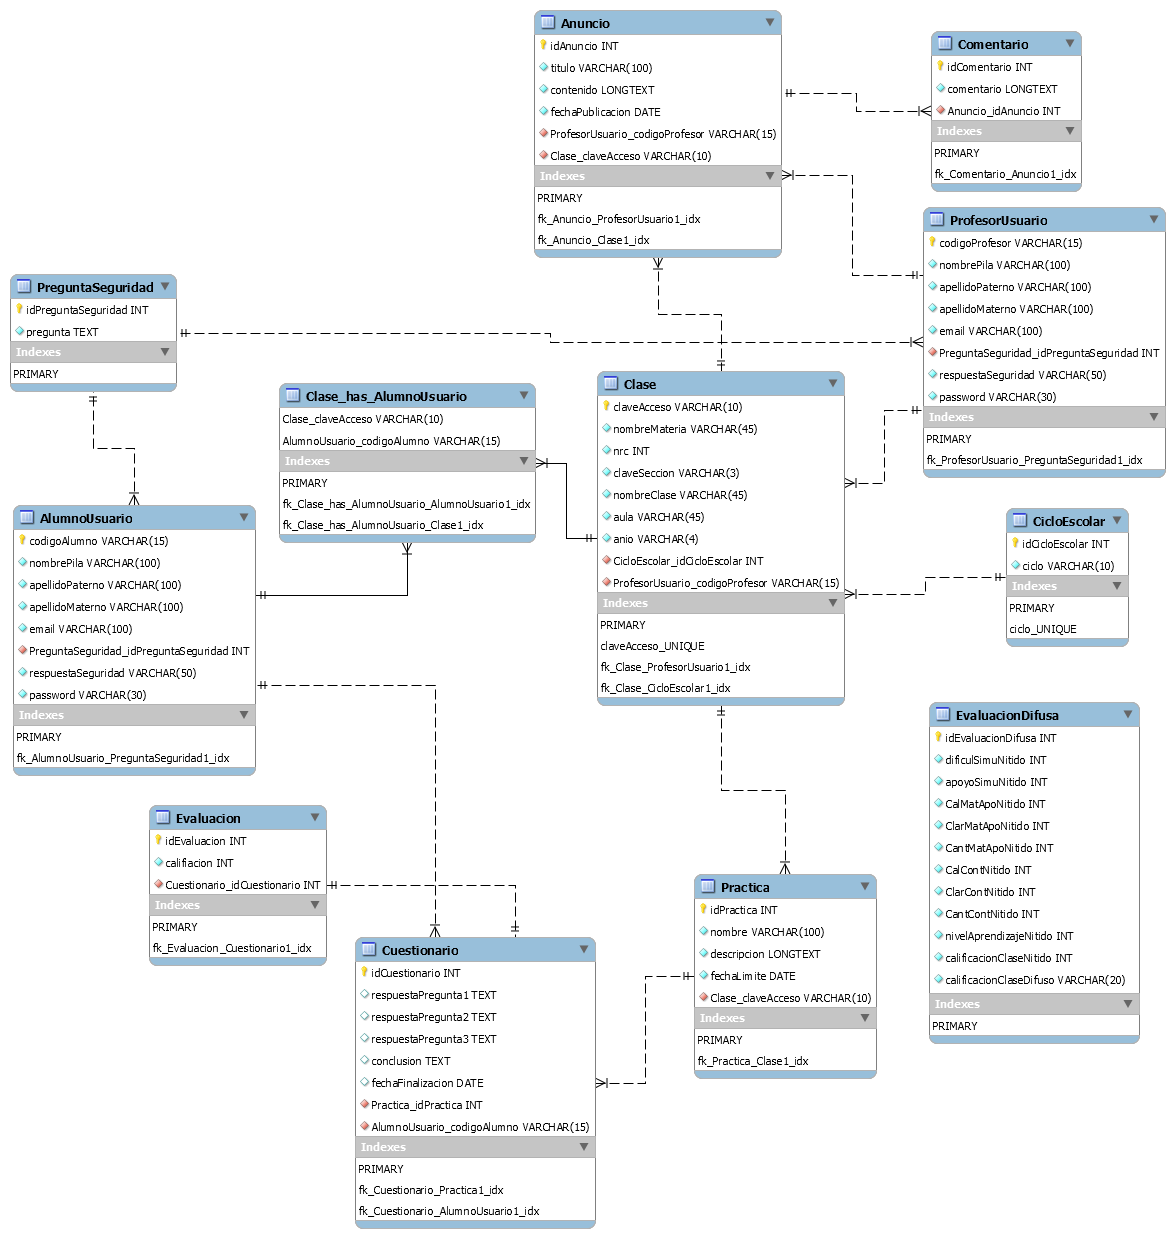
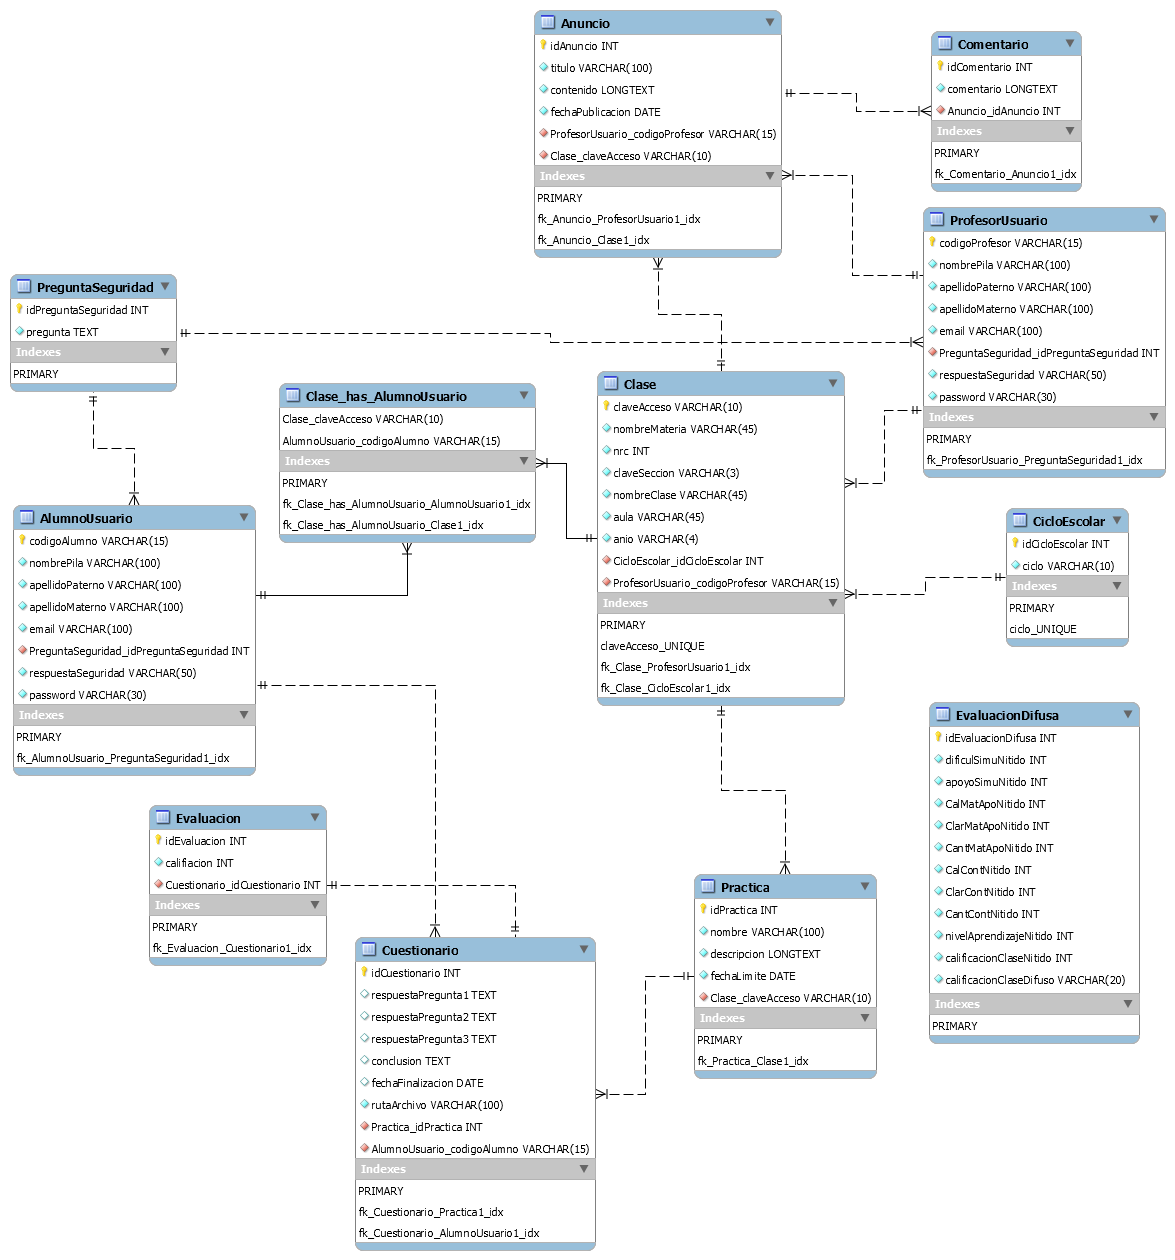
Realizado la función para que un alumno abandone la clase

diff --git a/js/validation-form-plugin/validacion-formularios.js b/js/validation-form-plugin/validacion-formularios.js
@@ -1068,7 +1068,7 @@ $("#modalUnirseClase").on("show.bs.modal", function (event) {
   });
 });
 
-// ***************************************** Para entregar una practica
+// ***************************************** Para entregar una practica ESTE FALTA DE REVISAR BIEN PARA QUE FUNCIONE CON FILES
 $("#modalEntregaPractica").on("show.bs.modal", function (event) {
   var button = $(event.relatedTarget);
   var modal = $(this);
@@ -1317,8 +1317,8 @@ function accionarEliminacion(tipoMetodo, ruta, archivoPHP, tipoDato, datos, ruta
         });
       }
     },
-    error: function(response) {
-      bootbox.alert("Error: " + response);
+    error: function(xhr, textStatus, errorThrown) {
+      bootbox.alert("Error: " + xhr.responseText);
     }
   });
 }
@@ -1431,6 +1431,9 @@ function confirmarEliminar(valor, tipo) {
       }
     });
   } else if(tipo == "abandonarClase") { // El alumno abandona una clase
+    var vectorValores = valor.split("-");
+    var claveAcceso = vectorValores[0];
+    var codigoAlumno = vectorValores[1];
     bootbox.confirm({
       title: "Abandonar clase",
       message: "¿Está seguro que desea abandonar la clase? TODOS sus trabajos serán eliminados de manera permanente.",
@@ -1449,8 +1452,7 @@ function confirmarEliminar(valor, tipo) {
       },
       callback: function (result) {
         if(result == true) {
-          //Todavia no tiene una acción
-          //accionarEliminacion("POST", "../../utileria/practica/", "eliminar-practica.php", "HTML", "idPractica=" + idPractica, "../materia/ingresar-materia.php?claveAccesoClase=" + btoa(claveAcceso));
+          accionarEliminacion("POST", "utileria/materia/", "abandonar-materia.php", "HTML", "claveAcceso=" + claveAcceso + "&codigoAlumno=" + codigoAlumno, "index.php");
         }
       }
     });

diff --git a/utileria/materia/abandonar-materia.php b/utileria/materia/abandonar-materia.php
@@ -1,0 +1,28 @@
+<?php
+include('../operaciones/conexion.php');
+try {
+    $claveAcceso = htmlentities(addslashes($_POST['claveAcceso']));
+    $codigoAlumno = htmlentities(addslashes($_POST['codigoAlumno']));
+
+    $sql = 'SELECT * FROM clase_has_alumnousuario WHERE Clase_claveAcceso = :claveAcceso AND AlumnoUsuario_codigoAlumno = :codigoAlumno';
+    $resultado = $baseDatos->prepare($sql);
+    $array = array(':claveAcceso'=>$claveAcceso, ':codigoAlumno'=>$codigoAlumno);
+    $resultado->execute($array);
+    if($resultado->execute($array)) {
+        $numRow = $resultado->rowCount();
+        if($numRow == 1) {
+            $sql = 'DELETE FROM clase_has_alumnousuario WHERE Clase_claveAcceso = :claveAcceso AND AlumnoUsuario_codigoAlumno = :codigoAlumno';
+            $resultado = $baseDatos->prepare($sql);
+            $array = array(':claveAcceso'=>$claveAcceso, ':codigoAlumno'=>$codigoAlumno);
+            $resultado->execute($array);
+            echo 'success';
+        } else {
+            echo 'Error. El alumno no se encuentra inscrito a la clase.';
+        }
+    } else {
+        echo 'Error. No se pudo comprobar el codigo del alumno que desea abandonar la clase.';
+    }
+} catch(Exception $exec) {
+    die('Error en la base de datos: ' . $exec->getMessage());
+}
+?>

diff --git a/index.php b/index.php
@@ -151,7 +151,7 @@ include('utileria/operaciones/conexion.php');
                     data-anio="<?php echo $clase->anio; ?>" data-codigoprofesor="<?php echo $clase->ProfesorUsuario_codigoProfesor; ?>">Editar <i class="fas fa-edit"></i></button>
                     <button type="button" class="btn btn-sm btn-danger" onclick="confirmarEliminar(<?php echo '\'' . $clase->claveAcceso . '\''; ?>, 'clase');">Eliminar <i class="fas fa-trash"></i></button>
                   <?php } else if($estado == 'INICIO_SESION_ALUMNO'){ ?>
-                    <button type="button" class="btn btn-sm btn-danger" onclick="confirmarEliminar(<?php echo '\'' . $clase->claveAcceso . '\''; ?>, 'abandonarClase');">Abandonar <i class="fas fa-trash"></i></button>
+                    <button type="button" class="btn btn-sm btn-danger" onclick="confirmarEliminar(<?php echo '\'' . $clase->claveAcceso . '-' . $codigo . '\''; ?>, 'abandonarClase');">Abandonar <i class="fas fa-trash"></i></button>
                   <?php } ?>
                 </div>
               </div>

diff --git a/utileria/practica/enviar-practica-cuestionario.php b/utileria/practica/enviar-practica-cuestionario.php
@@ -7,7 +7,7 @@ try {
     $respuestaPregunta3 = htmlentities(addslashes($_POST['respuestaPregunta3']));
     $conclusion = htmlentities(addslashes($_POST['conclusion']));
     $fechaFinalizacion = date('Y-m-d');
-    $nombreArchivo = htmlentities(addslashes($_FILES['nombreArchivo']));
+    $nombreArchivo = htmlentities(addslashes($_POST['nombreArchivo'])); // ESTE DEBE SER $_FILES PARA AGARRAR LOS ARCHIVOS
     $idPractica = htmlentities(addslashes($_POST['idPractica']));
     $codigoAlumno = htmlentities(addslashes($_POST['codigoAlumno']));
 
@@ -31,6 +31,8 @@ try {
         if(!file_exists($directorio)) {
             mkdir($directorio, 0777, true);
         }
+
+        // FALTA HACER QUE MUEVA LOS ARCHIVOS AL DIRECTORIO CREADO
 
         // $sql = 'INSERT INTO cuestionario (respuestaPregunta1, respuestaPregunta2, respuestaPregunta3, conclusion, fechaFinalizacion, rutaArchivo, Practica_idPractica, AlumnoUsuario_codigoAlumno) VALUES (:rp1, :rp2, :rp3, :c, :ff, :ra, :pip, :auca)';
         // $resultado = $baseDatos->prepare($sql);
